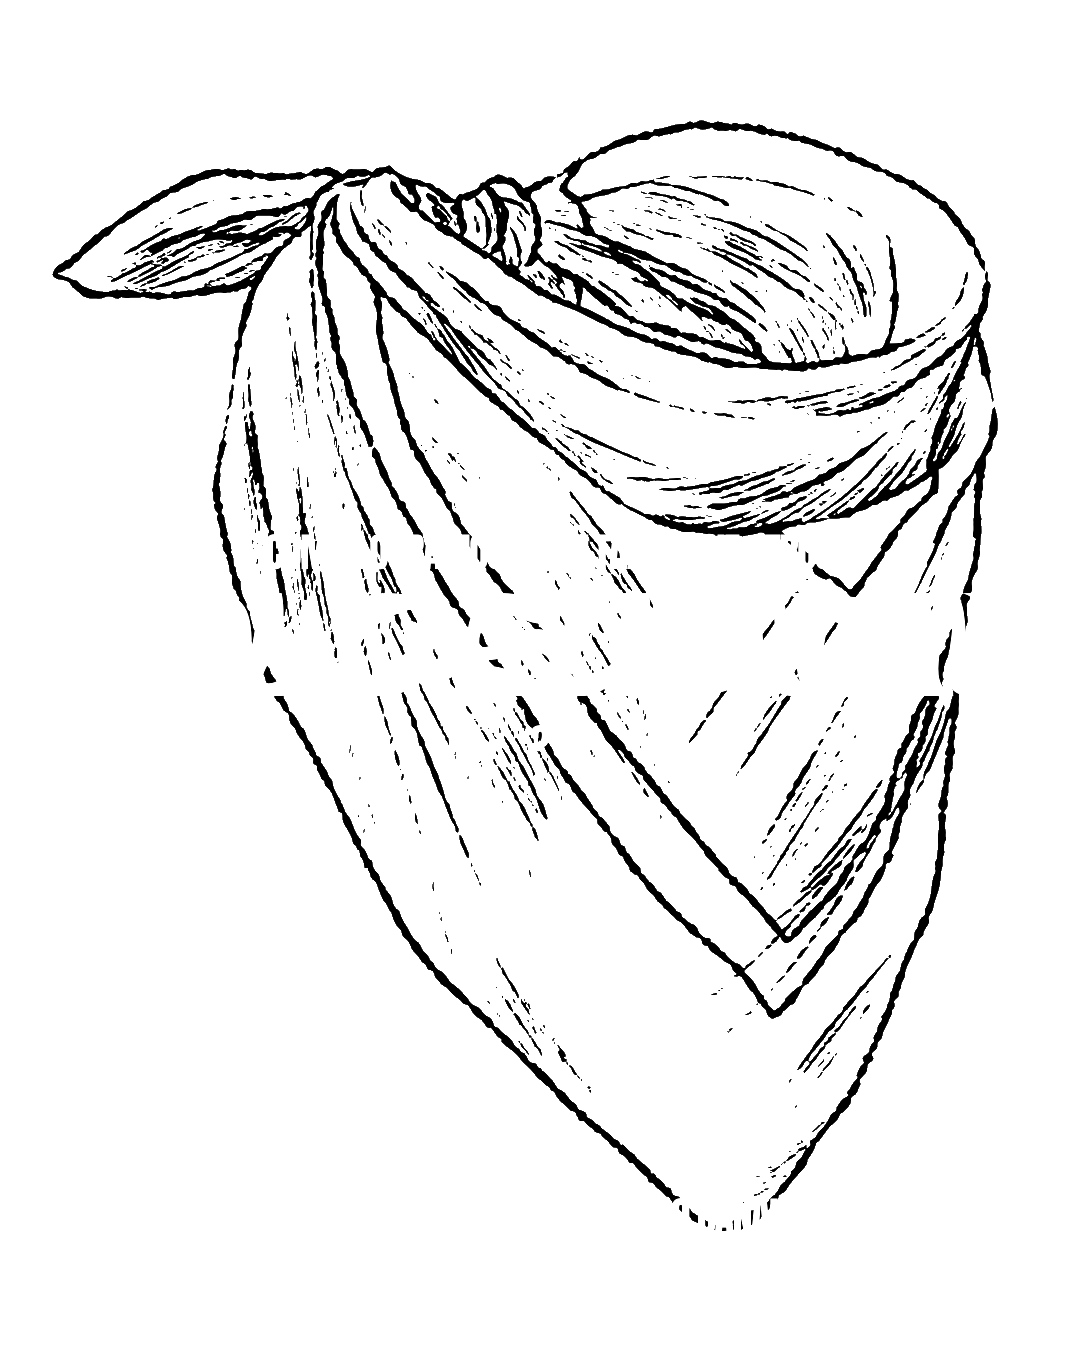
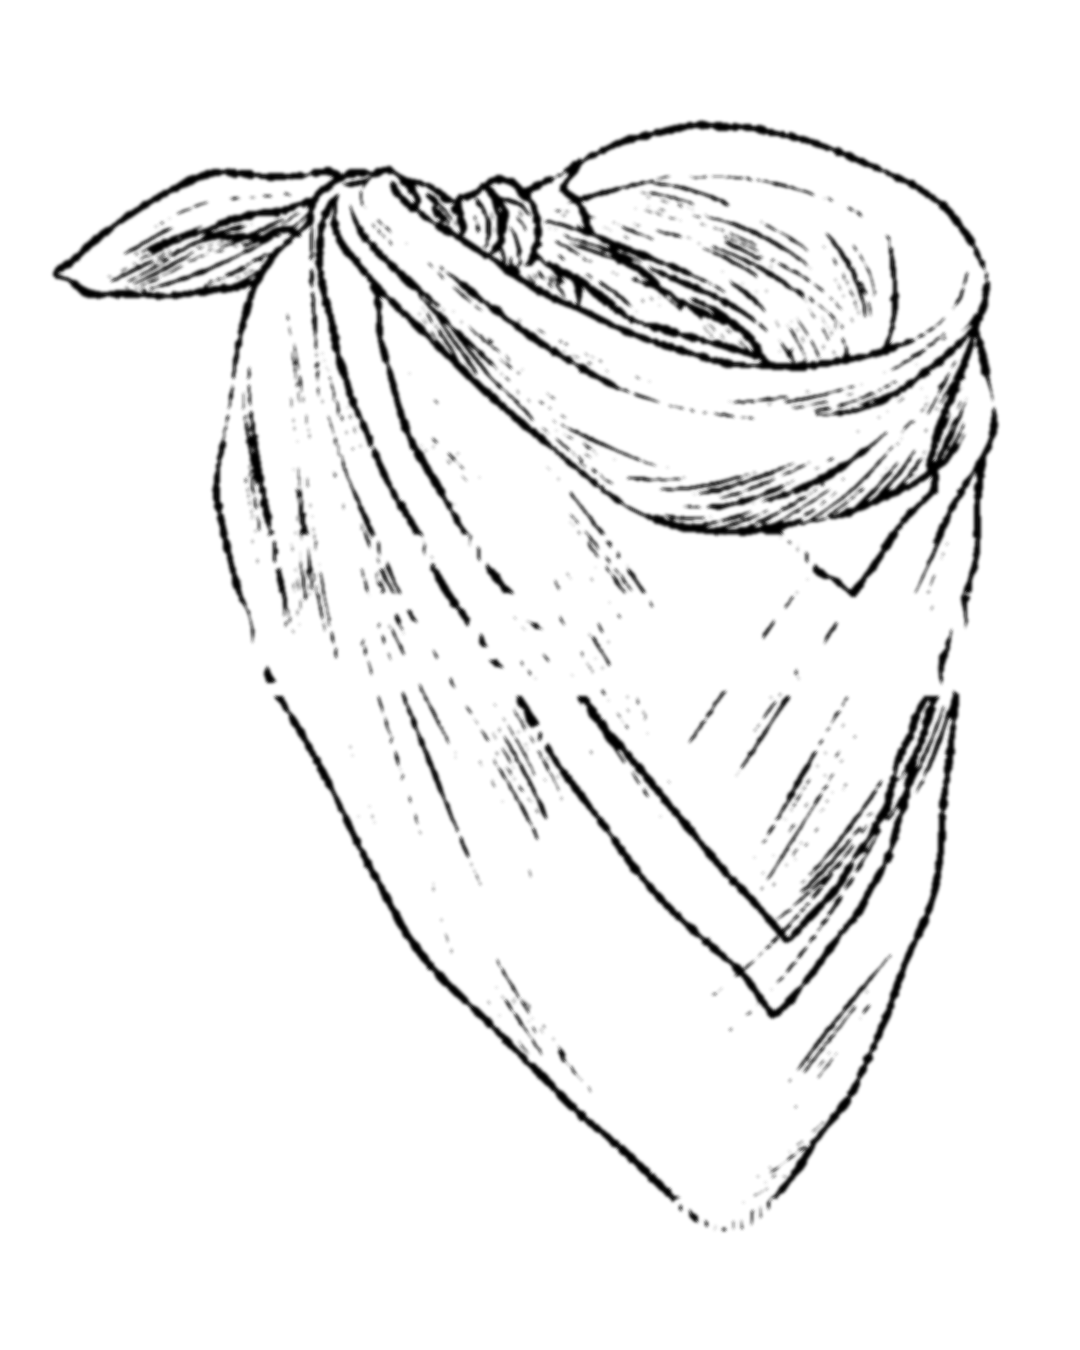
feat: 7 ilustraciones REBEL LUXURY + edge detection + assets originales Canva
ILUSTRACIONES (assets originales extraidos directamente de Canva via MCP):
- illus_angel_clean.png: Cupido (MAEZL-ffwUI, 3945x5005px original)
- illus_money_clean.png: Bolsa de dinero (MAEPx6Qa7P8)
- illus_mic_clean.png: Microfono estudio (MAFGXcPXcPs)
- illus_panuelo.png: Bandana sketch (MAFxA711xHE)
- illus_burj.png: Burj Al-Arab sketch edge-detection (MAFNent9Fm8)
- illus_ring_orig.png: Anillo diamante (MAEGkPjWdu0)
- illus_crown_real.png: Corona real engraving (rawpixel public domain)

TECNICA NUEVA: edge detection (ImageFilter.FIND_EDGES) para bosquejos con
fondo gris — extrae solo contornos finos sobre violeta sin cajas oscuras.

PIPELINE: gen_sketches.py genera AF1/Ferrari/cadena programaticamente

TESTS: 123/123 pasando

diff --git a/scripts/gen_sketches.py b/scripts/gen_sketches.py
@@ -1,0 +1,336 @@
+"""
+Bosquejos REBEL LUXURY — trazos finos estilo lapiz de moda.
+Genera: Air Force One, Ferrari, cadena, rosa, corona.
+"""
+import math, random, sys, io
+import numpy as np
+from PIL import Image, ImageDraw, ImageFont, ImageFilter
+from pathlib import Path
+
+sys.stdout = io.TextIOWrapper(sys.stdout.buffer, encoding="utf-8", errors="replace")
+
+ILLUS = Path(__file__).resolve().parent.parent / "assets" / "illustrations"
+ILLUS.mkdir(parents=True, exist_ok=True)
+
+INK  = (12, 12, 12)
+WITE = (255, 255, 255)
+
+
+def bezier3(p0, p1, p2, p3, n=40):
+    pts = []
+    for i in range(n + 1):
+        t = i / n
+        x = (1-t)**3*p0[0] + 3*(1-t)**2*t*p1[0] + 3*(1-t)*t**2*p2[0] + t**3*p3[0]
+        y = (1-t)**3*p0[1] + 3*(1-t)**2*t*p1[1] + 3*(1-t)*t**2*p2[1] + t**3*p3[1]
+        pts.append((int(x), int(y)))
+    return pts
+
+
+def bezier2(p0, p1, p2, n=25):
+    pts = []
+    for i in range(n + 1):
+        t = i / n
+        x = (1-t)**2*p0[0] + 2*(1-t)*t*p1[0] + t**2*p2[0]
+        y = (1-t)**2*p0[1] + 2*(1-t)*t*p1[1] + t**2*p2[1]
+        pts.append((int(x), int(y)))
+    return pts
+
+
+def to_transparent(img):
+    arr = np.array(img.convert("RGBA"), dtype=np.float32)
+    bright = (arr[:,:,0]+arr[:,:,1]+arr[:,:,2])/3
+    alpha = np.clip((230 - bright)/190 * 255, 0, 255)
+    arr[:,:,3] = alpha.astype(np.uint8)
+    out = Image.fromarray(arr.astype(np.uint8), "RGBA")
+    r,g,b,a = out.split()
+    a = a.filter(ImageFilter.GaussianBlur(0.7))
+    return Image.merge("RGBA", (r,g,b,a))
+
+
+# ══════════════════════════════════════════════════════════════════
+#  AIR FORCE ONE  —  vista lateral correcta
+# ══════════════════════════════════════════════════════════════════
+def gen_af1(S=1000):
+    W, H = S, int(S * 0.62)
+    img = Image.new("RGB", (W,H), WITE)
+    d   = ImageDraw.Draw(img)
+
+    # helper: fraction → pixel
+    def x(r): return int(r * W)
+    def y(r): return int(r * H)
+
+    T3 = max(3, S//150)   # thick
+    T2 = max(2, S//260)   # medium
+    T1 = max(1, S//500)   # thin
+
+    # ── SOLE (goma inferior) ──────────────────────────────────────
+    # Bottom rubber sole: flat rectangle with rounded front toe
+    # Outer sole outline
+    sole = (
+        bezier2((x(.07),y(.80)), (x(.07),y(.97)), (x(.20),y(.97)), 15) +
+        [(x(.78),y(.97))] +
+        bezier2((x(.78),y(.97)), (x(.93),y(.97)), (x(.93),y(.82)), 15) +
+        [(x(.93),y(.73))]
+    )
+    d.line(sole, fill=INK, width=T3)
+    d.line([(x(.07),y(.80)), (x(.93),y(.80))], fill=INK, width=T2)  # midsole top
+    # Midsole texture lines
+    for fy in (.84, .87, .90, .93):
+        d.line([(x(.08),y(fy)), (x(.92),y(fy))], fill=INK, width=T1)
+    # Air unit oval at heel
+    d.ellipse([x(.12),y(.85), x(.28),y(.93)], outline=INK, width=T1)
+
+    # ── UPPER BODY ────────────────────────────────────────────────
+    # Back of shoe (heel counter) — vertical with slight curve
+    heel_back = bezier2((x(.07),y(.80)), (x(.05),y(.50)), (x(.08),y(.28)), 20)
+    d.line(heel_back, fill=INK, width=T3)
+
+    # Top of shoe from heel to tongue opening
+    # AF1: heel drops steeply then rises into the ankle collar, then slopes down to toe
+    top_curve = (
+        bezier3((x(.08),y(.28)), (x(.12),y(.18)), (x(.25),y(.12)), (x(.38),y(.10)), 25) +
+        bezier3((x(.38),y(.10)), (x(.48),y(.08)), (x(.58),y(.10)), (x(.65),y(.16)), 20)
+    )
+    d.line(top_curve, fill=INK, width=T2)
+
+    # Ankle collar opening (oval cut)
+    collar_open = bezier3((x(.08),y(.28)), (x(.15),y(.22)), (x(.28),y(.18)), (x(.38),y(.10)), 20)
+    d.line(collar_open, fill=INK, width=T2)
+
+    # Toe box — rounded bulbous nose (AF1 signature)
+    toe = (
+        bezier3((x(.65),y(.16)), (x(.78),y(.18)), (x(.88),y(.32)), (x(.91),y(.52)), 25) +
+        bezier2((x(.91),y(.52)), (x(.93),y(.68)), (x(.93),y(.80)), 15)
+    )
+    d.line(toe, fill=INK, width=T3)
+
+    # Bottom of upper / vamp line
+    vamp = bezier3((x(.07),y(.80)), (x(.25),y(.77)), (x(.60),y(.75)), (x(.93),y(.80)), 30)
+    d.line(vamp, fill=INK, width=T2)
+
+    # Toe cap seam
+    toe_seam = bezier3((x(.72),y(.20)), (x(.80),y(.35)), (x(.84),y(.56)), (x(.84),y(.75)), 20)
+    d.line(toe_seam, fill=INK, width=T1)
+
+    # Vamp panel seam (from collar to mid-toe)
+    vamp_seam = bezier3((x(.22),y(.30)), (x(.40),y(.26)), (x(.58),y(.26)), (x(.72),y(.30)), 20)
+    d.line(vamp_seam, fill=INK, width=T1)
+
+    # ── TONGUE ────────────────────────────────────────────────────
+    tongue_l = bezier2((x(.36),y(.10)), (x(.34),y(.00)), (x(.42),y(-.04)), 15)
+    tongue_r = bezier2((x(.60),y(.10)), (x(.62),y(.00)), (x(.54),y(-.04)), 15)
+    d.line(tongue_l, fill=INK, width=T2)
+    d.line(tongue_r, fill=INK, width=T2)
+    # Tongue tip (off top of image is fine — creates bleed effect)
+
+    # ── SWOOSH ────────────────────────────────────────────────────
+    # AF1 swoosh: starts thin at back-low, sweeps up-forward, ends thin
+    sw_pts = bezier3((x(.16),y(.68)), (x(.28),y(.44)), (x(.52),y(.32)), (x(.68),y(.24)), 40)
+    sw_back = bezier3((x(.68),y(.24)), (x(.60),y(.30)), (x(.36),y(.46)), (x(.18),y(.64)), 40)
+
+    # Variable width swoosh
+    n = len(sw_pts)
+    for i in range(n-1):
+        t = i/(n-1)
+        w = max(T1, int(T1 + (T3*3.0-T1) * math.sin(math.pi * t * 0.85)))
+        d.line([sw_pts[i], sw_pts[i+1]], fill=INK, width=w)
+    d.line(sw_back, fill=INK, width=T1)
+
+    # ── LACE HOLES + LACES ───────────────────────────────────────
+    lace_xs = [.38, .43, .48, .53, .58, .63]
+    lace_ys = [.14, .13, .12, .11, .13, .15]
+    for i in range(len(lace_xs)):
+        ex = x(lace_xs[i]); ey = y(lace_ys[i]); r=max(4,S//120)
+        d.ellipse([ex-r,ey-r,ex+r,ey+r], outline=INK, width=T1)
+    # Cross laces
+    for i in range(len(lace_xs)-1):
+        d.line([(x(lace_xs[i]),y(lace_ys[i])), (x(lace_xs[i+1]),y(lace_ys[i+1]))],
+               fill=INK, width=T1)
+
+    # ── HEEL TAB ─────────────────────────────────────────────────
+    d.line([(x(.07),y(.36)), (x(.04),y(.36)), (x(.04),y(.50)), (x(.07),y(.50))],
+           fill=INK, width=T2)
+
+    # Save
+    dst = ILLUS / "illus_af1.png"
+    to_transparent(img).save(dst, "PNG")
+    return dst
+
+
+# ══════════════════════════════════════════════════════════════════
+#  FERRARI 488 / F40  —  vista lateral
+# ══════════════════════════════════════════════════════════════════
+def gen_ferrari(S=1000):
+    W, H = S, int(S * 0.52)
+    img = Image.new("RGB", (W,H), WITE)
+    d   = ImageDraw.Draw(img)
+
+    def x(r): return int(r*W)
+    def y(r): return int(r*H)
+    T3 = max(3, S//150); T2 = max(2, S//280); T1 = max(1, S//500)
+
+    # Ground line
+    d.line([(x(.04),y(.88)), (x(.96),y(.88))], fill=INK, width=T1)
+
+    # ── WHEELS ───────────────────────────────────────────────────
+    for cx_r, cy_r, wr in [(0.18,0.80,0.11), (0.76,0.80,0.11)]:
+        cx=x(cx_r); cy=y(cy_r); R=int(wr*H)
+        r_inner = int(R*0.62); r_hub = int(R*0.18)
+        # Tire
+        d.ellipse([cx-R,cy-R,cx+R,cy+R], outline=INK, width=T3)
+        # Rim
+        d.ellipse([cx-r_inner,cy-r_inner,cx+r_inner,cy+r_inner], outline=INK, width=T2)
+        # Hub
+        d.ellipse([cx-r_hub,cy-r_hub,cx+r_hub,cy+r_hub], fill=INK)
+        # Spokes (5)
+        for a in range(0, 360, 72):
+            rad = math.radians(a)
+            x1=cx+int(r_hub*1.3*math.cos(rad)); y1=cy+int(r_hub*1.3*math.sin(rad))
+            x2=cx+int(r_inner*0.9*math.cos(rad)); y2=cy+int(r_inner*0.9*math.sin(rad))
+            d.line([(x1,y1),(x2,y2)], fill=INK, width=T2)
+
+    # ── BODY SILHOUETTE ──────────────────────────────────────────
+    # Front bumper to windshield base
+    front = bezier3((x(.04),y(.70)), (x(.04),y(.58)), (x(.06),y(.46)), (x(.14),y(.40)), 25)
+    # Hood slope (low, aggressive)
+    hood = bezier3((x(.14),y(.40)), (x(.22),y(.36)), (x(.30),y(.30)), (x(.38),y(.26)), 20)
+    # A-pillar + roof
+    roof = bezier3((x(.38),y(.26)), (x(.44),y(.18)), (x(.56),y(.16)), (x(.64),y(.22)), 25)
+    # C-pillar + rear
+    rear_top = bezier3((x(.64),y(.22)), (x(.70),y(.26)), (x(.78),y(.32)), (x(.86),y(.40)), 20)
+    # Rear deck + bumper
+    rear = bezier3((x(.86),y(.40)), (x(.92),y(.48)), (x(.94),y(.60)), (x(.94),y(.70)), 20)
+
+    full_body = front + hood + roof + rear_top + rear
+    d.line(full_body, fill=INK, width=T3)
+
+    # Rocker / sill line (underside of body)
+    sill = bezier3((x(.08),y(.70)), (x(.30),y(.68)), (x(.60),y(.68)), (x(.90),y(.70)), 30)
+    d.line(sill, fill=INK, width=T2)
+
+    # Close front + rear verticals
+    d.line([(x(.04),y(.70)), (x(.08),y(.70))], fill=INK, width=T2)
+    d.line([(x(.94),y(.70)), (x(.90),y(.70))], fill=INK, width=T2)
+
+    # ── WINDSHIELD ───────────────────────────────────────────────
+    # A-pillar interior
+    d.line([x(.38),y(.26), x(.40),y(.40)], fill=INK, width=T2)
+    d.line([x(.64),y(.22), x(.63),y(.38)], fill=INK, width=T2)
+    # Dashboard line
+    d.line([(x(.40),y(.40)), (x(.63),y(.38))], fill=INK, width=T1)
+
+    # ── BODY LINES / CREASE ──────────────────────────────────────
+    # Main crease from front wheel arch to rear
+    crease = bezier3((x(.14),y(.52)), (x(.30),y(.48)), (x(.60),y(.48)), (x(.86),y(.52)), 30)
+    d.line(crease, fill=INK, width=T1)
+
+    # ── WHEEL ARCHES ─────────────────────────────────────────────
+    for cx_r in (0.18, 0.76):
+        cx=x(cx_r); cy=y(.68); R=int(.12*H)
+        # Arch cutout
+        pts = []
+        for a in range(180, 361, 6):
+            rad = math.radians(a)
+            pts.append((cx+int(R*math.cos(rad)), cy+int(R*math.sin(rad))))
+        # Just draw top arch
+        arch_pts = []
+        for a in range(200, 340, 5):
+            rad = math.radians(a)
+            arch_pts.append((cx+int(R*math.cos(rad)), cy+int(R*0.85*math.sin(rad))))
+        d.line(arch_pts, fill=INK, width=T2)
+
+    # ── DOOR LINE ────────────────────────────────────────────────
+    door_curve = bezier3((x(.40),y(.40)), (x(.42),y(.38)), (x(.60),y(.38)), (x(.62),y(.40)), 15)
+    d.line(door_curve, fill=INK, width=T1)
+    d.line([(x(.42),y(.40)), (x(.42),y(.68))], fill=INK, width=T1)
+    d.line([(x(.62),y(.40)), (x(.62),y(.68))], fill=INK, width=T1)
+    # Door handle
+    d.rectangle([x(.52),y(.50), x(.58),y(.53)], outline=INK, width=T1)
+
+    # ── AIR INTAKE (side) ─────────────────────────────────────────
+    air_pts = [
+        (x(.68),y(.44)), (x(.72),y(.42)), (x(.78),y(.44)),
+        (x(.78),y(.54)), (x(.68),y(.56)), (x(.68),y(.44))
+    ]
+    d.line(air_pts, fill=INK, width=T1)
+    # Slats inside
+    for fy in (.46, .49, .52):
+        d.line([(x(.69),y(fy)), (x(.77),y(fy))], fill=INK, width=T1)
+
+    # ── HEADLIGHT ────────────────────────────────────────────────
+    d.line([(x(.06),y(.46)), (x(.13),y(.44)), (x(.13),y(.52)), (x(.06),y(.54))], fill=INK, width=T1)
+
+    # ── TAILLIGHT ────────────────────────────────────────────────
+    d.line([(x(.90),y(.44)), (x(.93),y(.46)), (x(.93),y(.56)), (x(.90),y(.58))], fill=INK, width=T1)
+
+    # ── EXHAUST ──────────────────────────────────────────────────
+    d.ellipse([x(.87),y(.63), x(.91),y(.67)], outline=INK, width=T2)
+    d.ellipse([x(.90),y(.62), x(.94),y(.66)], outline=INK, width=T2)
+
+    # Save
+    dst = ILLUS / "illus_ferrari.png"
+    to_transparent(img).save(dst, "PNG")
+    return dst
+
+
+# ══════════════════════════════════════════════════════════════════
+#  CADENA CUBANA  —  joya de lujo urbano
+# ══════════════════════════════════════════════════════════════════
+def gen_chain(S=700):
+    W, H = S, S
+    img = Image.new("RGB", (W,H), WITE)
+    d   = ImageDraw.Draw(img)
+
+    cx, cy = W//2, H//2
+    T3 = max(4, S//100); T1 = max(1, S//350)
+    n_links = 11
+    lw = int(S*.075); lh = int(S*.045)
+    gap = int(S*.058)
+    ang = math.radians(-30)
+
+    total = n_links * gap
+    sx = cx - int(total/2*math.cos(ang))
+    sy = cy - int(total/2*math.sin(ang))
+
+    for i in range(n_links):
+        lx = sx + int(i*gap*math.cos(ang))
+        ly = sy + int(i*gap*math.sin(ang))
+        a = ang if i%2==0 else ang + math.pi/2
+        pts = []
+        for deg in range(0, 361, 8):
+            t = math.radians(deg)
+            ex = lx + int(lw/2*math.cos(t)*math.cos(a) - lh/2*math.sin(t)*math.sin(a))
+            ey = ly + int(lw/2*math.cos(t)*math.sin(a) + lh/2*math.sin(t)*math.cos(a))
+            pts.append((ex,ey))
+        d.line(pts+[pts[0]], fill=INK, width=T3)
+        # Highlight
+        hi = pts[3:7]
+        if len(hi) > 1:
+            d.line(hi, fill=(160,160,160), width=T1)
+
+    # Colgante: estrella de 5 puntas
+    star_cx = lx + int(gap*1.2*math.cos(ang))
+    star_cy = ly + int(gap*1.2*math.sin(ang))
+    R_out = int(S*.07); R_in = int(S*.03)
+    star_pts = []
+    for k in range(10):
+        r = R_out if k%2==0 else R_in
+        a2 = math.radians(k*36 - 90)
+        star_pts.append((star_cx + int(r*math.cos(a2)), star_cy + int(r*math.sin(a2))))
+    d.polygon(star_pts, outline=INK, fill=None)
+    d.line(star_pts + [star_pts[0]], fill=INK, width=T3)
+
+    dst = ILLUS / "illus_chain.png"
+    to_transparent(img).save(dst, "PNG")
+    return dst
+
+
+# ══════════════════════════════════════════════════════════════════
+#  RUN
+# ══════════════════════════════════════════════════════════════════
+if __name__ == "__main__":
+    print("Generando bosquejos REBEL LUXURY...")
+    a = gen_af1(1000);       print(f"  AF1:     {a.name} ({a.stat().st_size//1024}KB)")
+    f = gen_ferrari(1000);   print(f"  Ferrari: {f.name} ({f.stat().st_size//1024}KB)")
+    c = gen_chain(700);      print(f"  Chain:   {c.name} ({c.stat().st_size//1024}KB)")
+    print("LISTO")
